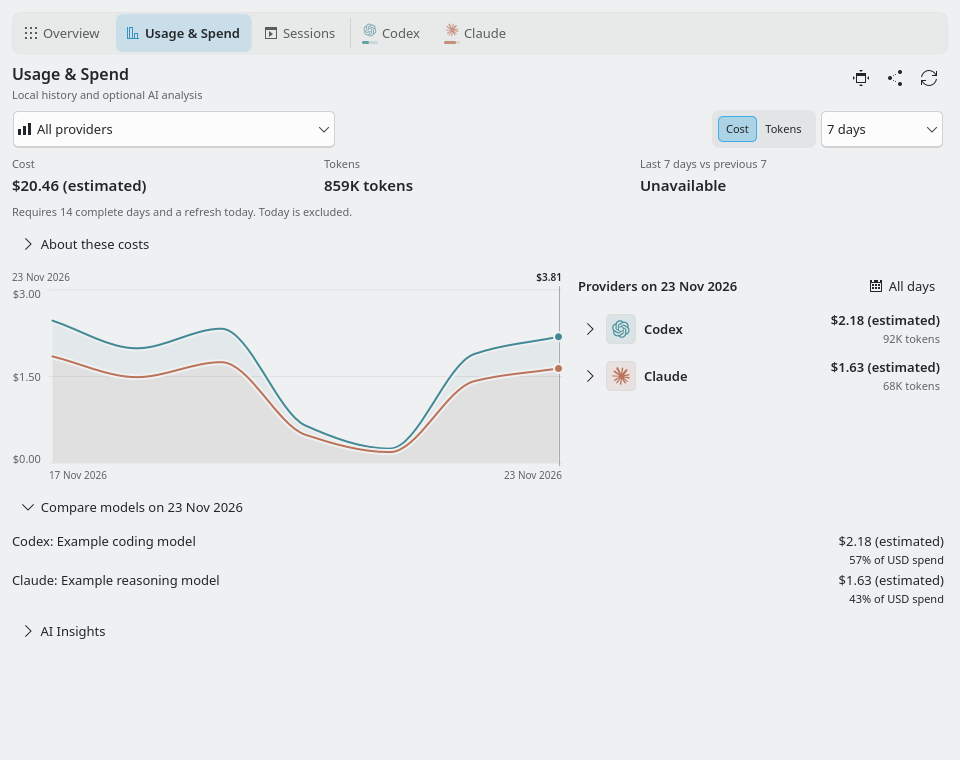
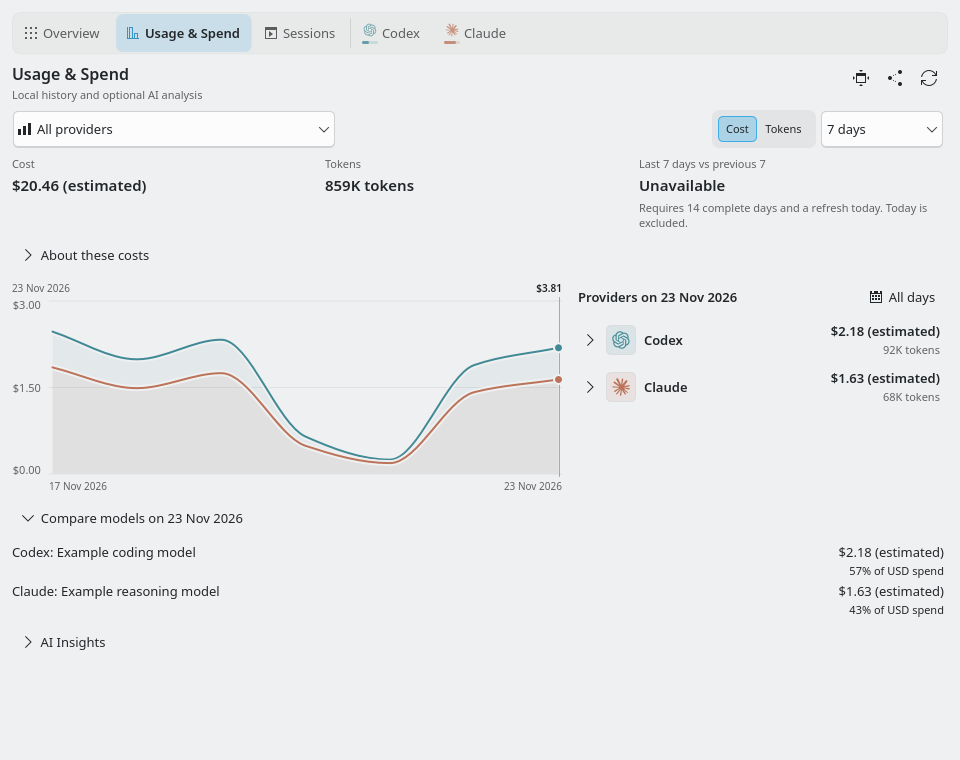
fix(popup): align weekly comparison guidance (#852)

diff --git a/tests/tst_global_view_errors.qml b/tests/tst_global_view_errors.qml
@@ -1271,6 +1271,31 @@ TestCase {
         compare(applet.refreshes, 0);
     }
 
+    function test_weeklyComparisonHelpStaysUnderItsValue() {
+        applet.costs = [{provider: "codex", daily: [], totals: {cost: 2, tokens: 10, currency: "USD"}}];
+        var view = createView("SpendView", 960);
+        if (!view) return;
+        var comparison = findItem(view, function(item) { return item.text === "Unavailable" && item.activeFocusOnTab; });
+        verify(comparison !== null);
+        var help = findItem(view, function(item) { return item.text === comparison.Accessible.description; });
+        verify(help !== null && help.visible);
+        var cost = findItem(view, function(item) { return item.text === "Cost" && item.parent === comparison.parent; });
+        verify(cost !== null);
+
+        verify(waitForPolish(view));
+        verify(comparison.x > 0);
+        verify(Math.abs(comparison.width - cost.width) <= 1);
+        compare(help.x, comparison.x);
+        compare(help.width, comparison.width);
+        verify(help.y >= comparison.y + comparison.height);
+
+        view.width = 320;
+        tryCompare(comparison, "x", 0);
+        compare(help.x, comparison.x);
+        compare(help.width, comparison.width);
+        verify(help.y >= comparison.y + comparison.height);
+    }
+
     function test_tokenExclusionsKeepTheSummaryQualified_data() {
         return [
             {tag: "token-only", costs: [{provider: "codex", daily: [], totals: {cost: null, tokens: 20},

diff --git a/contents/ui/components/SpendView.qml b/contents/ui/components/SpendView.qml
@@ -1301,10 +1301,18 @@ ColumnLayout {
             }
             Components.AnalysisAssistant {
                 id: analysisAssistant
+                property bool revealPending: false
                 answerExpanded: !view.historyAvailable
                 applet: view.applet
-                onAnswerExpandedChanged: if (answerExpanded)
-                    Qt.callLater(function() { view.revealHistoryItem(analysisAssistant) })
+                onAnswerExpandedChanged: revealPending = answerExpanded
+
+                Connections {
+                    target: analysisAssistant.revealPending ? view.Window.window : null
+                    function onFrameSwapped() {
+                        analysisAssistant.revealPending = false
+                        view.revealHistoryItem(analysisAssistant)
+                    }
+                }
             }
         }
     }

diff --git a/contents/ui/components/AnalysisSummary.qml b/contents/ui/components/AnalysisSummary.qml
@@ -107,10 +107,10 @@ GridLayout {
     PlainPlasmaLabel {
         visible: summary.comparison === null
         Layout.row: summary.columns === 3 ? 2 : 6
-        Layout.column: 0
-        Layout.columnSpan: summary.columns
+        Layout.column: summary.columns - 1
         Layout.fillWidth: true
-        Layout.topMargin: Kirigami.Units.smallSpacing
+        Layout.minimumWidth: 0
+        Layout.preferredWidth: 1
         text: summary.comparisonHelp
         font: Kirigami.Theme.smallFont
         opacity: applet.secondaryTextOpacity

diff --git a/docs/usage.md b/docs/usage.md
@@ -225,7 +225,7 @@ it. The readout below the grid shows the inspected date and amount.
 
 **Last 7 days vs previous 7** excludes today and requires fourteen complete days
 plus a scan from today. Missing, partial, stale, or ambiguous history shows
-unavailable, with its requirements below the totals. An incomplete price list
+unavailable, with its requirements below the comparison. An incomplete price list
 can still allow a complete token comparison. No currencies are converted.
 
 Current quotas stay in Overview and provider tabs. If both history sources are

diff --git a/CHANGELOG.md b/CHANGELOG.md
@@ -29,6 +29,11 @@ For earlier versions, see [GitHub Releases](https://github.com/Lucenx9/codexbar-
   shows complete indicators that fit the widget's space and retains all saved
   choices when the panel shrinks.
 
+### Fixed
+
+- Show the weekly comparison requirements directly below the comparison in
+  **Usage & Spend** when it is unavailable.
+
 ## 0.2.58 - 2026-11-22
 
 ### Fixed
